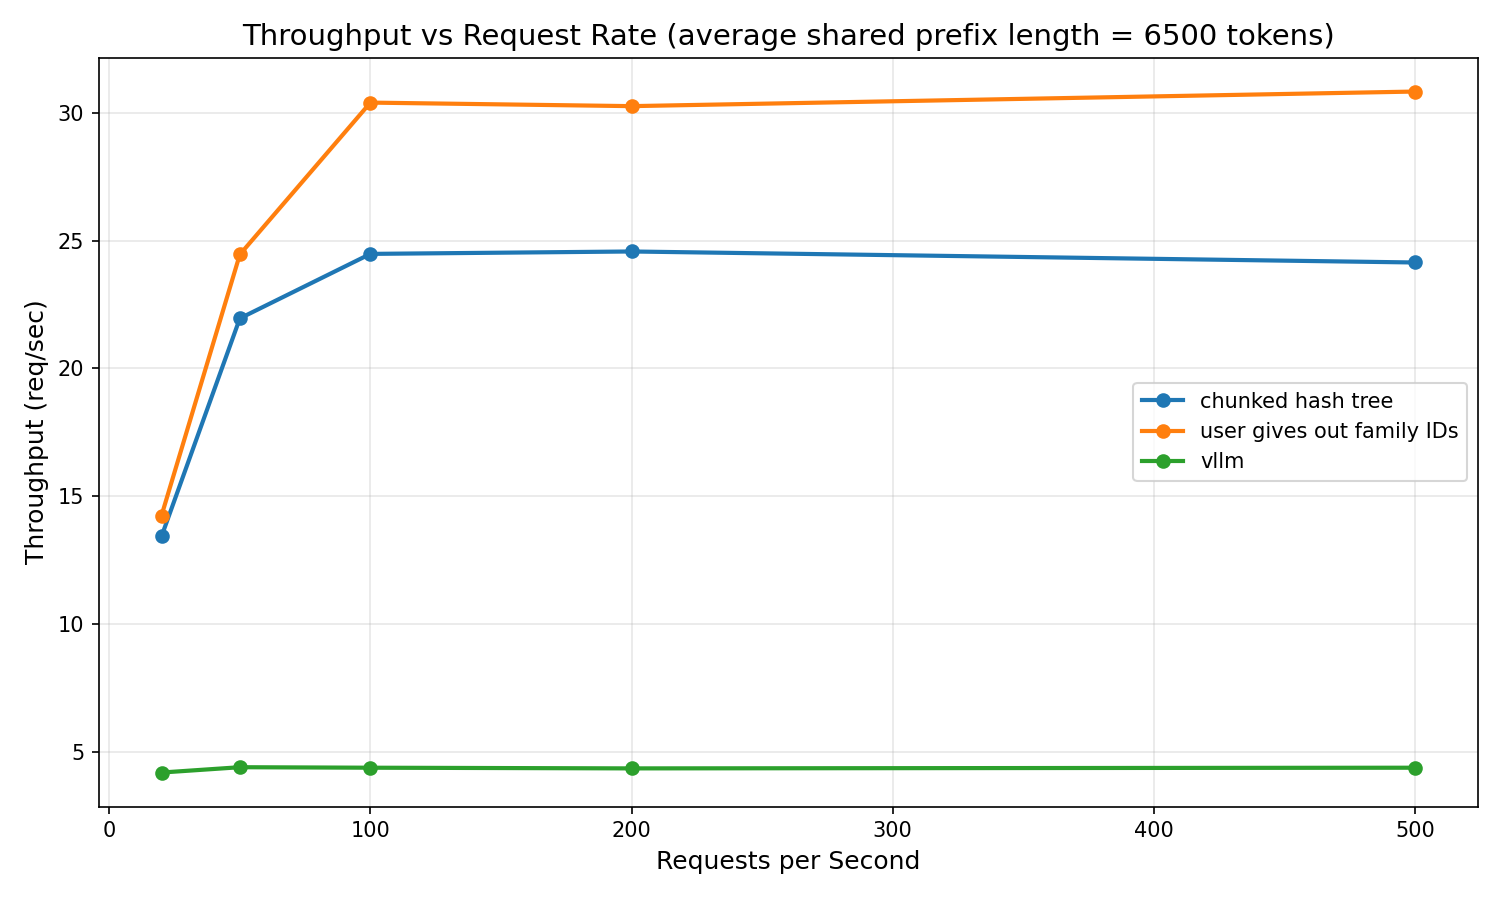
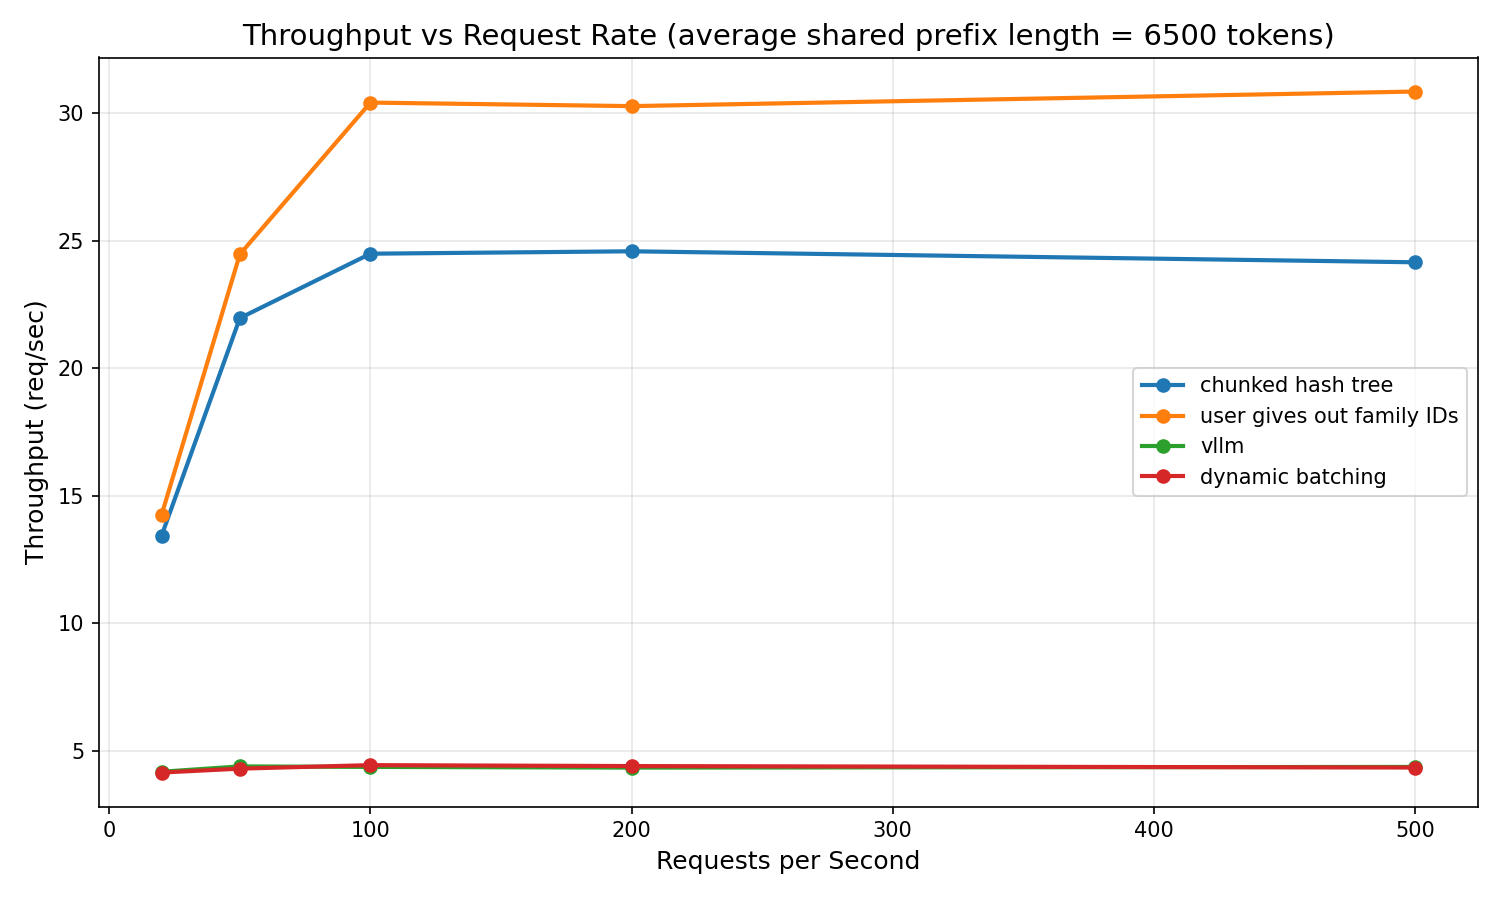
dynamic batching results added  ; plots updated

Changed region(s): [[0.7667, 0.4044, 0.9813, 0.56], [0.092, 0.84, 0.9507, 0.8711]]

diff --git a/code/vllm/sglang_multiple_families_varying_workloads.py b/code/vllm/sglang_multiple_families_varying_workloads.py
@@ -1,3 +1,4 @@
+#!/home/saksham/CS496/code/vllm/.venv/bin/python
 import random
 import string
 import time
@@ -26,7 +27,7 @@ def main():
     parser.add_argument("--randomness", type=int, default=1)
     parser.add_argument("--len_factor", type=float, default=1.0)
     parser.add_argument("--multiplier", type=int, default=10)
-    parser.add_argument("--max_new_tokens", type=int, default=50)
+    parser.add_argument("--max_new_tokens", type=int, default=100)
     parser.add_argument("--write_output", action="store_true")
     parser.add_argument("--policy", type=str, default="lpm")
     args = parser.parse_args()
@@ -96,6 +97,7 @@ def main():
     llm.generate(
         prompts,
         sampling_params,
+        poisson_rate=args.req_per_sec,
     )
     end_time = time.time()
 
@@ -103,13 +105,13 @@ def main():
     print("Throughput:", throughput, "req/s")
 
     if args.write_output:
-        with open(".out", "a") as f:
+        with open("vllm_multiple_families_varying_workloads_output.txt", "a") as f:
             f.write(
                 f"Throughput Test | families={args.num_families} | "
                 f"req/s={args.req_per_sec} | max_batch={args.max_batch_size} | "
                 f"randomness={args.randomness} | len_factor={args.len_factor} | "
                 f"model={args.model_name} | max_new_tokens={args.max_new_tokens} | "
-                f"num_prompts={len(prompts)} | throughput={throughput}\n"
+                f"num_prompts={len(prompts)} | throughput={throughput} | policy={args.policy}\n"
             )
 
 
